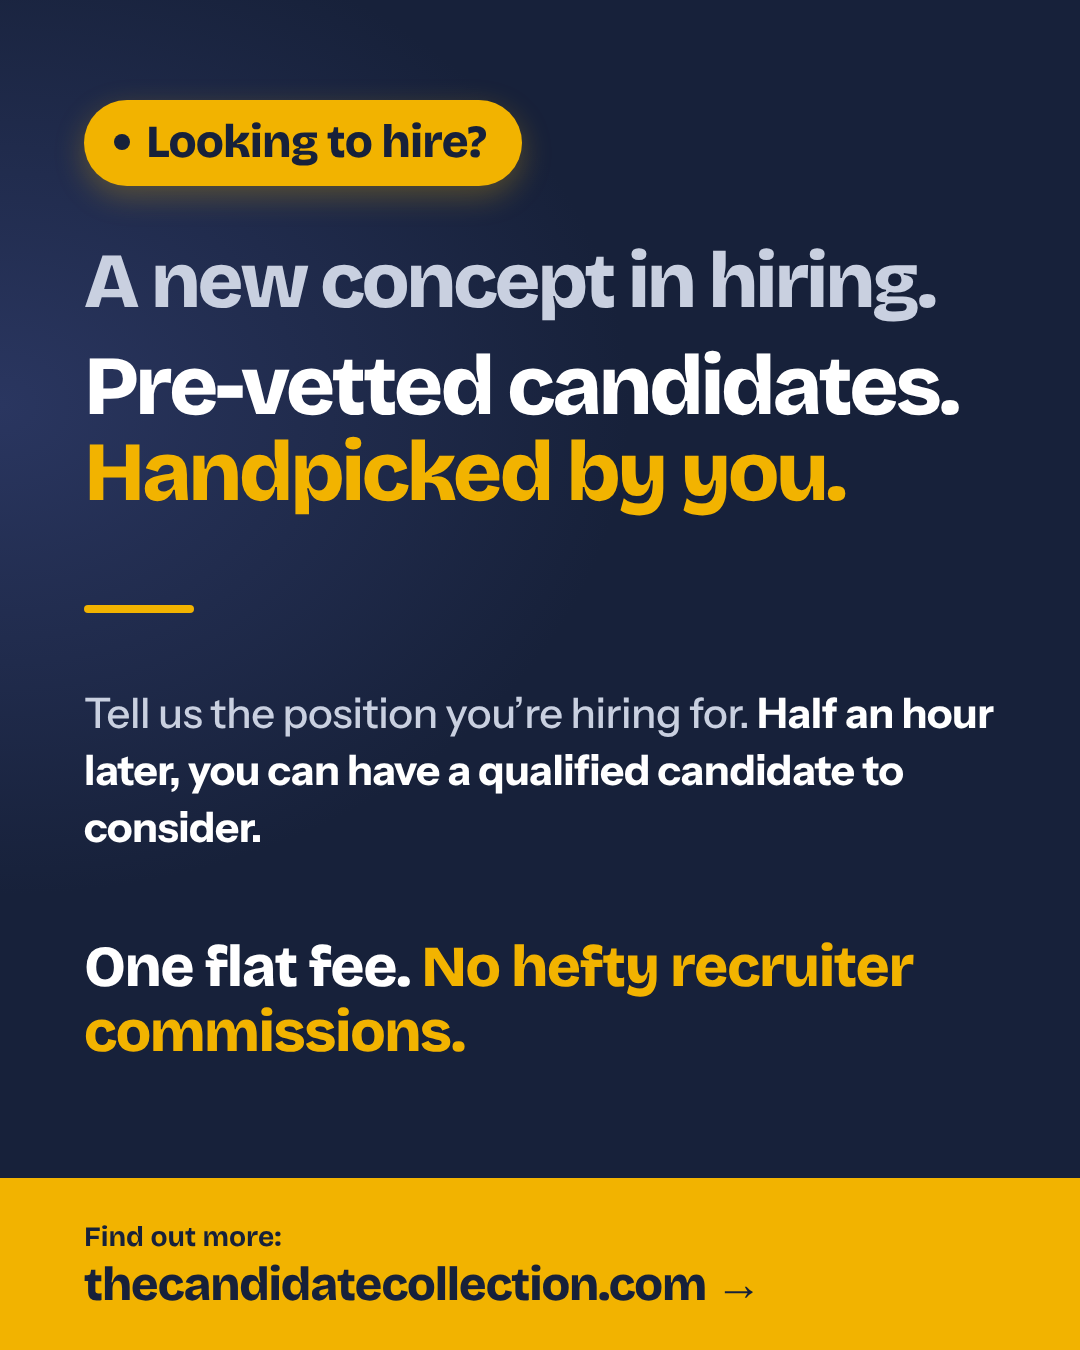
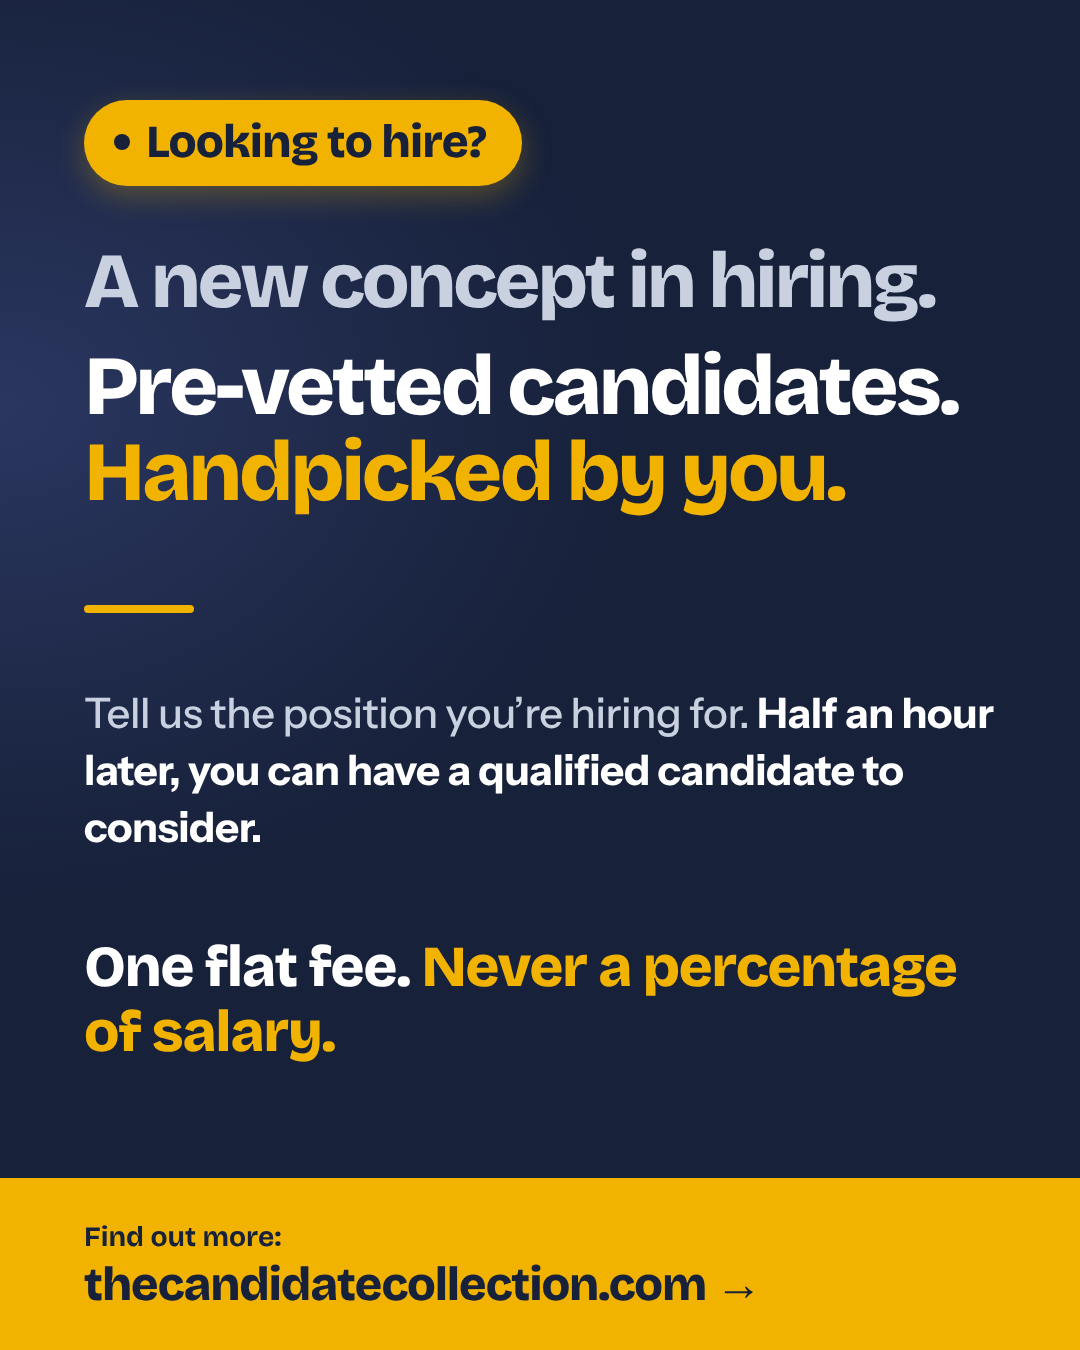
Posters and captions: 'One flat fee. Never a percentage of salary.'
Claude-Session: https://claude.ai/code/session_01EZeEyNzeQFPN4DFsUvzuMe

Changed region(s): [[0.4278, 0.6844, 0.8861, 0.7467], [0.0917, 0.7467, 0.4278, 0.8089]]

diff --git a/design/posters/render-all.js b/design/posters/render-all.js
@@ -1,0 +1,18 @@
+const { chromium } = require('playwright');
+const S='/tmp/claude-0/-home-claude/622a8e37-8676-541a-a547-c446bbd1cde0/scratchpad';
+const W='--h1:78px;--m1:56px;--h2:84px;--m2:24px;--fsz:58px;', WS='--h:1920px;--top:330px;--band:400px;--h1:78px;--m1:66px;--h2:84px;--m2:26px;--fsz:58px;';
+const jobs=[
+ ['vars.html','owner-handpicked',1350,'',1],['vars.html','owner-handpicked-status',1920,'--H:1920px;--top:350px;--band:400px',1],
+ ['vars.html','owner-four-reasons',1350,'',4],['vars.html','owner-four-reasons-status',1920,'--H:1920px;--top:300px;--band:400px;--rp:44px;--hm:70px 0 76px',4],
+ ['optA.html','owner-concept-half-hour',1350,'--h:1350px;--top:100px;--band:172px;'+W+'--bar:90px 0 0;--ms:72px;--mf:80px;--ssz:42px'],['optA.html','owner-concept-half-hour-status',1920,WS+'--bar:120px 0 0;--ms:96px;--mf:120px;--ssz:42px'],
+ ['optB.html','owner-concept-talk-browse',1350,'--h:1350px;--top:100px;--band:172px;'+W+'--bar:90px 0 0;--ms:72px;--mf:80px;--ssz:42px'],['optB.html','owner-concept-talk-browse-status',1920,WS+'--bar:120px 0 0;--ms:96px;--mf:120px;--ssz:42px'],
+ ['optA2.html','owner-concept-short',1350,'--h:1350px;--top:100px;--band:172px;'+W+'--bar:96px 0 0;--ms:80px;--mf:88px;--ssz:48px'],['optA2.html','owner-concept-short-status',1920,WS+'--bar:130px 0 0;--ms:104px;--mf:130px;--ssz:48px'],
+ ['words.html','owner-concept-words',1350,'--h:1350px;--top:100px;--band:172px;--h1:78px;--m1:56px;--h2:100px;--m2:24px;--bar:96px 0 0;--ms:80px;--mf:92px;--ssz:42px;--fsz:58px'],['words.html','owner-concept-words-status',1920,'--h:1920px;--top:330px;--band:400px;--h1:78px;--m1:66px;--h2:100px;--m2:26px;--bar:140px 0 0;--ms:110px;--mf:150px;--ssz:42px;--fsz:58px'],
+ ['concept.html','owner-concept',1350,'--h:1350px;--top:70px;--band:172px;--h1:64px;--m1:36px;--h2:92px;--m2:14px;--mc:64px;--ms:56px;--mf:40px'],['concept.html','owner-concept-status',1920,'--h:1920px;--top:280px;--band:400px;--h1:66px;--m1:50px;--h2:94px;--m2:18px;--mc:84px;--ms:72px;--mf:56px'],
+];
+(async () => { const b = await chromium.launch();
+for (const [file,name,h,css,v] of jobs) { const p = await (await b.newContext({ viewport: { width: 1080, height: h } })).newPage();
+await p.goto('file://'+S+'/'+file); await p.addStyleTag({ content: ':root{'+css+'}' }); await p.evaluate(() => document.fonts.ready); if (v) await p.evaluate(v => document.body.dataset.v = v, v); await p.waitForTimeout(300);
+const txt = await p.evaluate(() => document.body.innerText); console.log(name.padEnd(36), /hefty/.test(txt) ? 'STILL HEFTY' : 'ok', /percentage/.test(txt) ? 'pct' : 'NO PCT');
+await p.screenshot({ path: '/home/claude/hiring-platform/public/share/'+name+'.png' }); await p.close(); }
+await b.close(); })();

diff --git a/design/posters/vars.html b/design/posters/vars.html
@@ -40,7 +40,7 @@ body[data-v="1"] .v1,body[data-v="2"] .v2,body[data-v="3"] .v3,body[data-v="4"] 
 <p class="d" style="font-size:74px;margin-top:22px">Pre-vetted candidates.</p>
 <p class="d gold" style="font-size:162px;margin:30px 0 0 -6px;line-height:.94">Handpicked<br>by you.</p>
 <p class="t" style="font-size:38px;margin-top:76px">Tell us the position you’re hiring for. <b>Half an hour later, you can have a qualified candidate to consider.</b></p>
-<p class="d" style="font-size:46px;margin-top:52px;line-height:1.15">One flat fee. <span class="soft">No hefty recruiter commissions.</span></p>
+<p class="d" style="font-size:46px;margin-top:52px;line-height:1.15">One flat fee. <span class="soft">Never a percentage of salary.</span></p>
 </div><div class="band"><div class="a">Find out more:</div><div class="b">thecandidatecollection.com →</div></div></div>
 
 <div class="v v2"><div class="in">
@@ -68,7 +68,7 @@ body[data-v="1"] .v1,body[data-v="2"] .v2,body[data-v="3"] .v3,body[data-v="4"] 
 <div class="row"><p class="d">Pre-vetted candidates.</p><p class="t">Each one met<br>by our team.</p></div>
 <div class="row"><p class="d">Handpicked by you.</p><p class="t">You choose who<br>to meet.</p></div>
 <div class="row"><p class="d">Half an hour.</p><p class="t">Tell us the position, get a<br>candidate to consider.</p></div>
-<div class="row"><p class="d">One flat fee.</p><p class="t">No hefty recruiter<br>commissions.</p></div>
+<div class="row"><p class="d">One flat fee.</p><p class="t">Never a percentage<br>of salary.</p></div>
 </div><div class="band"><div class="a">Find out more:</div><div class="b">thecandidatecollection.com →</div></div></div>
 
 <div class="v v5"><div class="in">

diff --git a/src/lib/shareKit.ts b/src/lib/shareKit.ts
@@ -32,12 +32,12 @@ export function ownerTeaser(ref?: string | null) {
 // The "new concept" family: one message for each poster, so the caption says
 // what the picture says.
 const concept = (ref: string | null | undefined, middle: string) =>
-  `Looking to hire? A new concept in hiring.\n\nPre-vetted candidates. Handpicked by you.\n\n${middle}\n\nOne flat fee. No hefty recruiter commissions.\n\nFind out more: ${shareLink(ref, "home")}`;
+  `Looking to hire? A new concept in hiring.\n\nPre-vetted candidates. Handpicked by you.\n\n${middle}\n\nOne flat fee. Never a percentage of salary.\n\nFind out more: ${shareLink(ref, "home")}`;
 const HALF_HOUR = "Tell us the position you're hiring for. Half an hour later, you can have a qualified candidate to consider.";
 
 // "A new concept in hiring": for owners who'd rather browse than be called.
 export function ownerConcept(ref?: string | null) {
-  return `A new concept in hiring.\n\nPre-vetted talent. Handpicked by you.\n\nBrowse profiles of experienced, pre-screened candidates, ready for their next opportunity.\n\nOne flat fee. No hefty recruiter commissions.\n\nSee for yourself: ${shareLink(ref, "home")}`;
+  return `A new concept in hiring.\n\nPre-vetted talent. Handpicked by you.\n\nBrowse profiles of experienced, pre-screened candidates, ready for their next opportunity.\n\nOne flat fee. Never a percentage of salary.\n\nSee for yourself: ${shareLink(ref, "home")}`;
 }
 
 // The earlier teaser, kept as a choice.

diff --git a/design/posters/optA.html b/design/posters/optA.html
@@ -31,6 +31,6 @@ h2 span{color:#f2b300;display:block}.bar{width:110px;height:8px;border-radius:4p
 <div class="card"><span class="chip">Sales</span><div class="l d"></div><div class="l"></div><div class="l s"></div><div class="tick">✓ MET BY OUR TEAM</div></div>
 </div>
 <div class="bar"></div><p class="s">Tell us the position you’re hiring for. <b style="color:#fff">Half an hour later, you can have a qualified candidate to consider.</b></p>
-<p class="fee">One flat fee. <span>No hefty recruiter commissions.</span></p>
+<p class="fee">One flat fee. <span>Never a percentage of salary.</span></p>
 </div>
 <div class="band"><div class="a">Find out more:</div><div class="b">thecandidatecollection.com →</div></div>

diff --git a/design/posters/optB.html b/design/posters/optB.html
@@ -31,6 +31,6 @@ h2 span{color:#f2b300;display:block}.bar{width:110px;height:8px;border-radius:4p
 <div class="card"><span class="chip">Sales</span><div class="l d"></div><div class="l"></div><div class="l s"></div><div class="tick">✓ MET BY OUR TEAM</div></div>
 </div>
 <div class="bar"></div><p class="s">We’ve already met the candidates. <b style="color:#fff">Tell us the position you’re hiring for, or browse them yourself.</b></p>
-<p class="fee">One flat fee. <span>No hefty recruiter commissions.</span></p>
+<p class="fee">One flat fee. <span>Never a percentage of salary.</span></p>
 </div>
 <div class="band"><div class="a">Find out more:</div><div class="b">thecandidatecollection.com →</div></div>

diff --git a/design/posters/optA2.html b/design/posters/optA2.html
@@ -31,6 +31,6 @@ h2 span{color:#f2b300;display:block}.bar{width:110px;height:8px;border-radius:4p
 <div class="card"><span class="chip">Sales</span><div class="l d"></div><div class="l"></div><div class="l s"></div><div class="tick">✓ MET BY OUR TEAM</div></div>
 </div>
 <div class="bar"></div><p class="s">Tell us the position. <b style="color:#fff">A qualified candidate to consider, in half an hour.</b></p>
-<p class="fee">One flat fee. <span>No hefty recruiter commissions.</span></p>
+<p class="fee">One flat fee. <span>Never a percentage of salary.</span></p>
 </div>
 <div class="band"><div class="a">Find out more:</div><div class="b">thecandidatecollection.com →</div></div>

diff --git a/design/posters/words.html b/design/posters/words.html
@@ -31,6 +31,6 @@ h2 span{color:#f2b300;display:block}.bar{width:110px;height:8px;border-radius:4p
 <div class="card"><span class="chip">Sales</span><div class="l d"></div><div class="l"></div><div class="l s"></div><div class="tick">✓ MET BY OUR TEAM</div></div>
 </div>
 <div class="bar"></div><p class="s">Browse profiles of experienced, pre-screened candidates, ready for their next opportunity.</p>
-<p class="fee">One flat fee. <span>No hefty recruiter commissions.</span></p>
+<p class="fee">One flat fee. <span>Never a percentage of salary.</span></p>
 </div>
 <div class="band"><div class="a">See for yourself:</div><div class="b">thecandidatecollection.com →</div></div>

diff --git a/design/posters/concept.html b/design/posters/concept.html
@@ -31,6 +31,6 @@ h2 span{color:#f2b300;display:block}
 <div class="card"><span class="chip">Sales</span><div class="l d"></div><div class="l"></div><div class="l s"></div><div class="tick">✓ MET BY OUR TEAM</div></div>
 </div>
 <p class="s">Browse profiles of experienced, pre-screened candidates, ready for their next opportunity.</p>
-<p class="fee">One flat fee. <span>No hefty recruiter commissions.</span></p>
+<p class="fee">One flat fee. <span>Never a percentage of salary.</span></p>
 </div>
 <div class="band"><div class="a">See for yourself:</div><div class="b">thecandidatecollection.com →</div></div>
